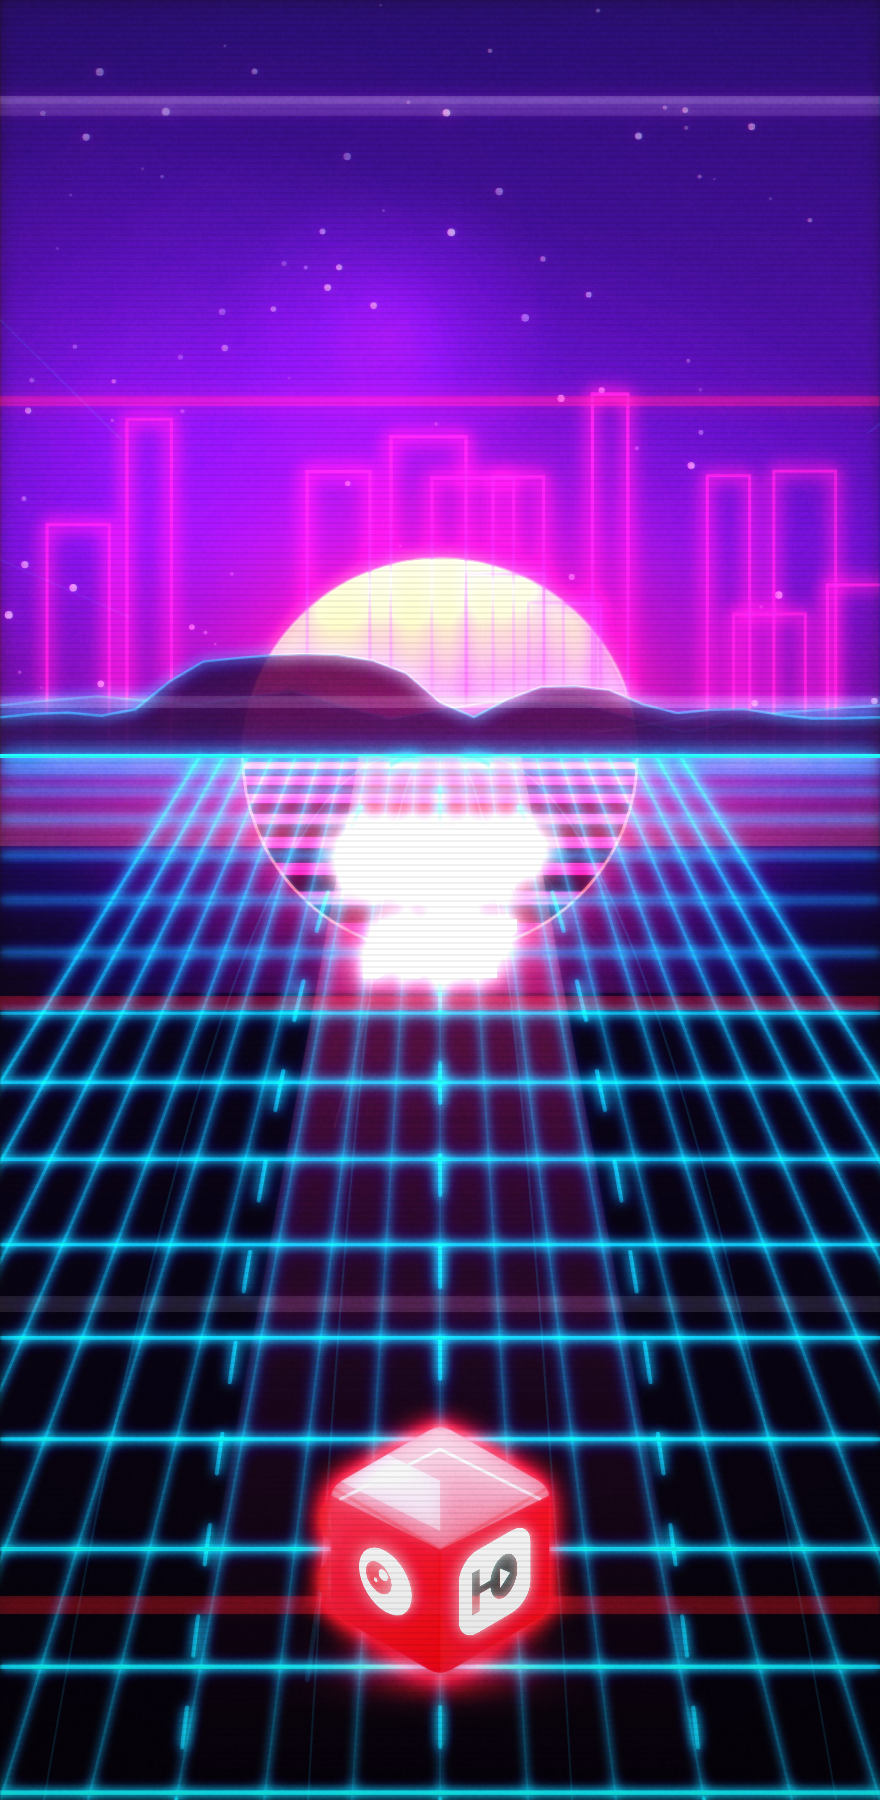
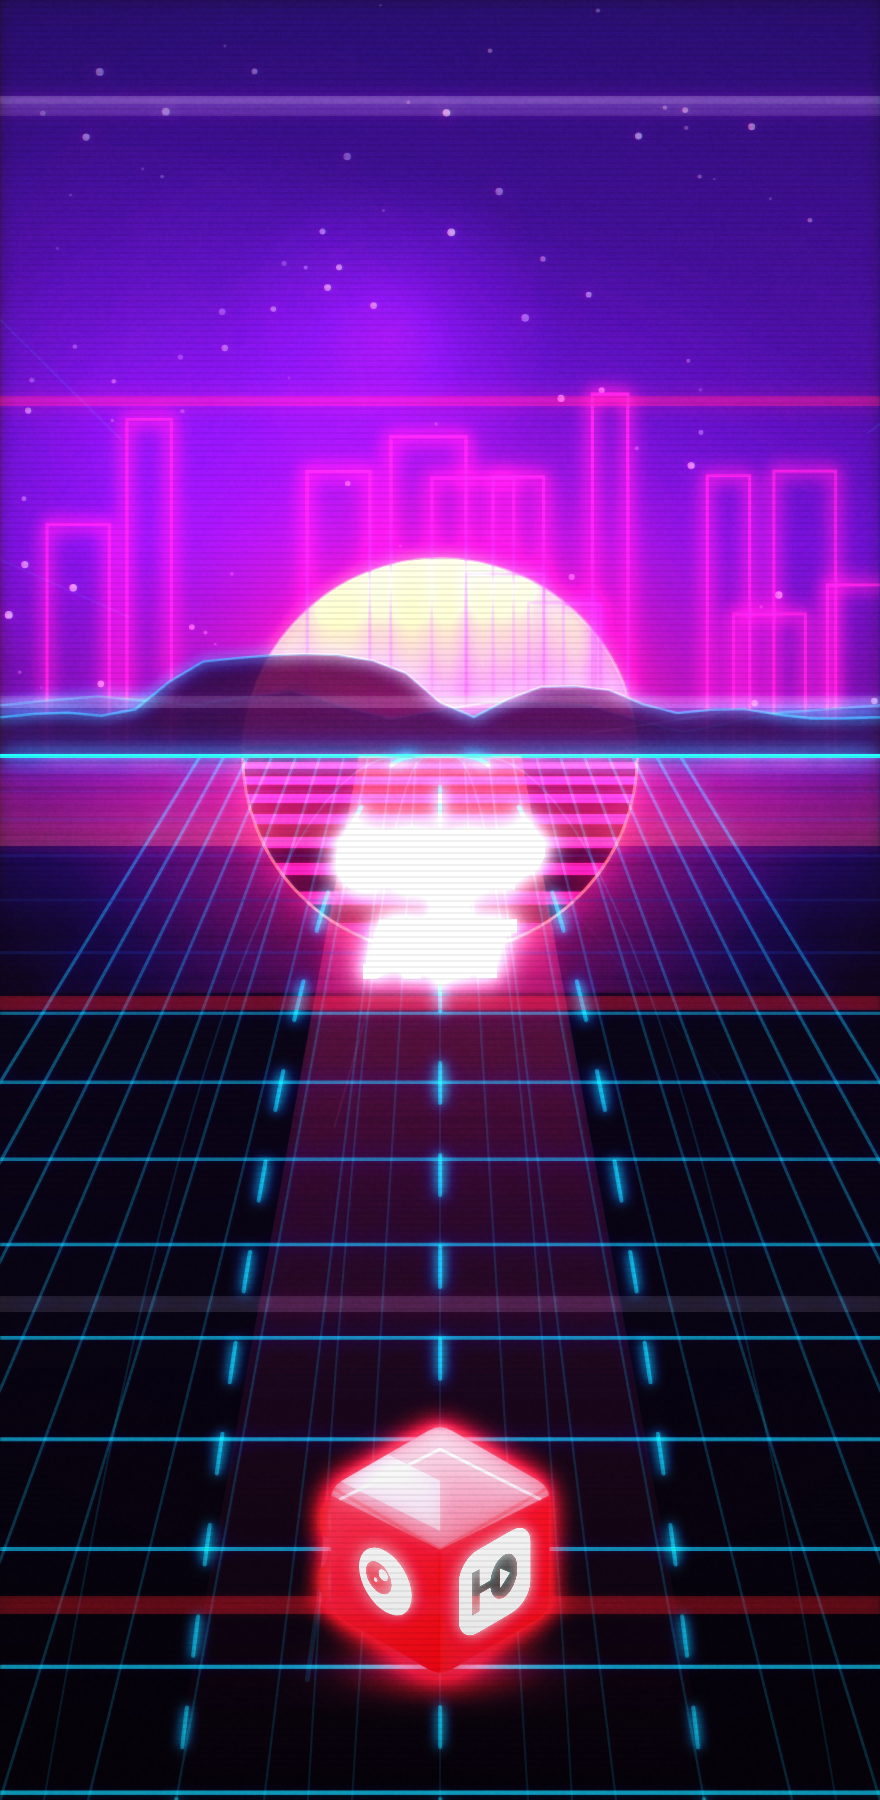
@ perf: адаптивное качество рендера — фикс тормозов на мобиле/хостинге
Менеджер качества следит за временем кадра и сам подбирает тир: DPR + вкл/выкл
тяжёлых полнокадровых эффектов. Стиль сохранён, деградирует мягко. Один билд
тянет и ПК, и мобилу.

- quality.js: EMA времени кадра, тиры 0–3 (dpr/bloom/aberration/grain/scanlines)
- render.js: потолок DPR 2.5→2 + setDprCap() на лету
- main.js: quality.sample() каждый кадр, пост-эффекты гейтятся тиром
- config.js: секция QUALITY (пороги/старт-тир)
- world.js: убран shadowBlur с сетки-пола (~37 штрихов/кадр) — свечение через bloom
- aberration по умолчанию off (только ультра-тир)

@

Changed region(s): [[0.0, 0.4044, 1.0, 1.0]]

diff --git a/src/main.js b/src/main.js
@@ -3,6 +3,7 @@ import { CONFIG } from '../config.js';
 import { setupCanvas, scanlines, clamp, drawRails } from './engine/render.js';
 import { bloom, aberration, vignette, grain } from './engine/postfx.js';
 import { Particles } from './engine/particles.js';
+import { Quality } from './engine/quality.js';
 import { initInput } from './engine/input.js';
 import { Audio } from './engine/audio.js';
 import { loadAssets, getSprite } from './engine/assets.js';
@@ -23,7 +24,9 @@ import * as UI from './ui/screens.js';
 const C = CONFIG.COLORS;
 const FX = CONFIG.FX;
 const canvas = document.getElementById('gameCanvas');
-const { ctx, ...view } = setupCanvas(canvas);
+const quality = new Quality();
+const { ctx, ...view } = setupCanvas(canvas, quality.s.dpr);
+quality.onChange = (s) => view.setDprCap(s.dpr);
 
 // Растровые ассеты необязательны: если манифест/PNG не загрузятся, объекты
 // останутся на процедурном рендере через getSprite() -> null.
@@ -302,9 +305,10 @@ function drawComboBurst(ctx, W, H, dt) {
 
 // --- Кадр -------------------------------------------------------------------
 function frame(now) {
-  let dt = (now - last) / 1000;
+  const dtMs = now - last;
+  let dt = Math.min(dtMs / 1000, 0.05);
   last = now;
-  dt = Math.min(dt, 0.05);
+  quality.sample(dtMs);           // адаптация качества по реальному времени кадра
   const geom = geometry(view.W, view.H);
 
   const rawSpeed = currentSpeed();
@@ -429,9 +433,10 @@ function frame(now) {
     captchaGame.draw(ctx, t);
   }
 
-  // --- кинематографичная пост-обработка (см. CONFIG.FX) ---
-  if (FX.BLOOM) bloom(ctx, canvas, { strength: FX.BLOOM_STRENGTH, blur: FX.BLOOM_BLUR, scale: FX.BLOOM_SCALE });
-  if (FX.ABERRATION) aberration(ctx, canvas, FX.ABERRATION);
+  // --- кинематографичная пост-обработка (тир качества рулит включением) ---
+  const q = quality.s;
+  if (FX.BLOOM && q.bloom) bloom(ctx, canvas, { strength: FX.BLOOM_STRENGTH, blur: FX.BLOOM_BLUR, scale: q.bloomScale });
+  if (FX.ABERRATION && q.aberration) aberration(ctx, canvas, FX.ABERRATION);
 
   // пост-эффекты
   const frac = clamp((speed - CONFIG.BASE_SPEED) / (CONFIG.MAX_SPEED - CONFIG.BASE_SPEED), 0, 1);
@@ -445,9 +450,9 @@ function frame(now) {
     ctx.save(); ctx.fillStyle = vg; ctx.fillRect(0, 0, geom.W, geom.H); ctx.restore();
   }
   if (flash > 0) { ctx.save(); ctx.globalAlpha = clamp(flash, 0, 1) * 0.6; ctx.fillStyle = state === 'dying' ? C.danger : C.white; ctx.fillRect(0, 0, geom.W, geom.H); ctx.restore(); }
-  if (FX.VIGNETTE) vignette(ctx, geom.W, geom.H, FX.VIGNETTE);
-  if (FX.GRAIN) grain(ctx, geom.W, geom.H, FX.GRAIN, fxFrame++);
-  scanlines(ctx, geom.W, geom.H);
+  if (FX.VIGNETTE) vignette(ctx, geom.W, geom.H, FX.VIGNETTE);       // дёшево — всегда
+  if (FX.GRAIN && q.grain) grain(ctx, geom.W, geom.H, FX.GRAIN, fxFrame++);
+  if (q.scanlines) scanlines(ctx, geom.W, geom.H);
 
   // HUD
   if (state === 'play' || state === 'dying' || state === 'captcha') {

diff --git a/src/engine/quality.js b/src/engine/quality.js
@@ -1,0 +1,39 @@
+// Адаптивное качество рендера. Следит за сглаженным временем кадра и переключает
+// «тир»: на слабом железе/мобильном WebView понижает DPR и отключает тяжёлые
+// полнокадровые пост-эффекты; на мощном — включает по максимуму. Цель — стабильные
+// 60 fps без потери синтвейв-стиля (он деградирует мягко).
+import { CONFIG } from '../../config.js';
+import { clamp } from './render.js';
+
+// 0 = потато … 3 = ультра. dpr — потолок плотности; bloomScale — даунскейл буфера
+// bloom (меньше = дешевле и мягче). Самый дорогой эффект — aberration (2 фильтр-
+// прохода полного кадра), он включается только на ультре.
+const TIERS = [
+  { dpr: 1.25, bloom: false, aberration: false, grain: false, scanlines: false, bloomScale: 0.30 },
+  { dpr: 1.5,  bloom: true,  aberration: false, grain: false, scanlines: true,  bloomScale: 0.34 },
+  { dpr: 2.0,  bloom: true,  aberration: false, grain: true,  scanlines: true,  bloomScale: 0.40 },
+  { dpr: 2.0,  bloom: true,  aberration: true,  grain: true,  scanlines: true,  bloomScale: 0.50 },
+];
+
+export class Quality {
+  constructor(startTier = CONFIG.QUALITY.START_TIER) {
+    this.tier = clamp(startTier | 0, 0, TIERS.length - 1);
+    this.ema = 16.7;               // экспоненциальное среднее времени кадра (мс)
+    this.cooldown = CONFIG.QUALITY.WARMUP;
+    this.onChange = null;          // колбэк при смене тира (например, сменить DPR)
+  }
+
+  get s() { return TIERS[this.tier]; }
+
+  // dtMs — реальное (несглаженное) время последнего кадра в миллисекундах
+  sample(dtMs) {
+    if (dtMs > 0 && dtMs < 1000) this.ema = this.ema * 0.9 + dtMs * 0.1;
+    if (this.cooldown > 0) { this.cooldown--; return; }
+
+    if (this.ema > CONFIG.QUALITY.DOWN_MS && this.tier > 0) {
+      this.tier--; this.cooldown = 120; this.onChange?.(this.s);
+    } else if (this.ema < CONFIG.QUALITY.UP_MS && this.tier < TIERS.length - 1) {
+      this.tier++; this.cooldown = 200; this.onChange?.(this.s);
+    }
+  }
+}

diff --git a/config.js b/config.js
@@ -106,6 +106,18 @@ export const CONFIG = {
     NEBULA: true,          // мягкие маджента/фиолет «туманности» в небе (глубина)
   },
 
+  // --- Адаптивное качество (производительность) -----------------------------
+  // Менеджер следит за временем кадра и сам поднимает/опускает «тир» качества:
+  // на слабых устройствах (мобильный WebView) понижает DPR и отключает тяжёлые
+  // полнокадровые эффекты (хром-аберрация, зерно, bloom), на мощных — включает.
+  // Стиль (неон/синтвейв) сохраняется; деградирует мягко и автоматически.
+  QUALITY: {
+    START_TIER: 2,         // стартовый тир (0 потато … 3 ультра)
+    DOWN_MS: 23,           // средний кадр дольше N мс → понизить тир (~<43 fps)
+    UP_MS: 14.5,           // средний кадр короче N мс → поднять тир (~>68 fps)
+    WARMUP: 90,            // кадров «прогрева» до первой подстройки
+  },
+
   // --- Палитра ЮБуста: мульти-хью синтвейв -----------------------------------
   // Принцип «цвет = смысл»: холодный фон (фиолет/индиго/циан) vs тёплый
   // фирменный красный игрока/бустов даёт читаемость и «дорогой» вид.

diff --git a/src/engine/render.js b/src/engine/render.js
@@ -5,10 +5,12 @@
 // и CI-артефакты не превращали русские подписи в квадраты.
 export const FONT = '"Manrope","Inter","Segoe UI",Arial,"DejaVu Sans","Liberation Sans",system-ui,sans-serif';
 
-export function setupCanvas(canvas) {
+export function setupCanvas(canvas, dprCap = 2) {
   const ctx = canvas.getContext('2d');
+  let cap = dprCap;
   function resize() {
-    const dpr = Math.min(window.devicePixelRatio || 1, 2.5);
+    // DPR ограничен сверху (телефоны дают 2.5–3 → ×6–9 пикселей и просадки).
+    const dpr = Math.min(window.devicePixelRatio || 1, cap);
     const w = window.innerWidth;
     const h = window.innerHeight;
     canvas.width = Math.round(w * dpr);
@@ -19,7 +21,13 @@ export function setupCanvas(canvas) {
   }
   resize();
   window.addEventListener('resize', resize);
-  return { ctx, get W() { return window.innerWidth; }, get H() { return window.innerHeight; } };
+  return {
+    ctx,
+    get W() { return window.innerWidth; },
+    get H() { return window.innerHeight; },
+    // адаптивное качество меняет потолок DPR на лету (с переаллокацией буфера)
+    setDprCap(c) { if (c !== cap) { cap = c; resize(); } },
+  };
 }
 
 // неоновый прямоугольник со свечением и обводкой

diff --git a/src/game/world.js b/src/game/world.js
@@ -382,9 +382,11 @@ export class World {
       ctx.restore();
     }
 
-    // сетка: циан, с перспективным затуханием (дальние линии тусклее/тоньше)
+    // сетка: циан, с перспективным затуханием (дальние линии тусклее/тоньше).
+    // shadowBlur НЕ используем — это ~37 размытых штрихов/кадр (дорого на мобиле);
+    // свечение даёт пост-bloom. На потато-тире (bloom off) сетка просто плоская.
     ctx.save();
-    ctx.shadowColor = C.grid; ctx.shadowBlur = 6;
+    ctx.shadowBlur = 0;
     // вертикали (сходятся к точке схода) — затухают к горизонту
     for (let i = -10; i <= 10; i++) {
       const fx = vpx + i * (W / 10);

diff --git a/docs/solutions/2026-06-09-adaptive-quality-perf.md b/docs/solutions/2026-06-09-adaptive-quality-perf.md
@@ -1,0 +1,47 @@
+# Тормоза на хостинге → адаптивное качество рендера
+
+## Problem
+Игра ощутимо лагала на GitHub Pages, особенно в мобильном Telegram WebView.
+На десктопе плавно, на телефоне — просадки fps.
+
+## Root Cause
+Каждый кадр выполнялась тяжёлая полнокадровая пост-обработка поверх canvas с очень
+высоким разрешением:
+1. **DPR до 2.5** (`setupCanvas`): на телефоне это ×6.25 пикселей — огромный fill-rate.
+2. **`aberration`** ([postfx.js](../../src/engine/postfx.js)) — **два** прохода всего
+   кадра через `ctx.filter` (brightness/contrast) + `multiply`-заливки + композит.
+   Самый дорогой эффект, гонялся каждый кадр.
+3. **`bloom`** — `ctx.filter: blur(...)` по уменьшенной копии всего кадра (CSS-blur
+   дорог на мобиле), масштаб буфера тянулся за DPR.
+4. **`grain`** — тайлинг 256-шумовой текстуры по всему экрану с `overlay`-блендом.
+5. **`shadowBlur`** на ~37 штрихах сетки-пола каждый кадр (`world._drawFloor`) —
+   размытие штрихов крайне затратно на мобильных GPU.
+
+Сумма: высокий DPR × несколько full-frame фильтр-проходов = мобильный webview не тянет.
+
+## Solution
+**Адаптивное качество** — менеджер следит за временем кадра и сам подбирает тир,
+сохраняя синтвейв-стиль (деградирует мягко):
+- Новый [quality.js](../../src/engine/quality.js): EMA времени кадра; тиры 0–3
+  задают `dpr`, вкл/выкл `bloom/aberration/grain/scanlines` и `bloomScale`. Понижает
+  тир при среднем кадре > `DOWN_MS`, повышает при < `UP_MS` (гистерезис + cooldown,
+  чтобы не дёргалось). Параметры — в `CONFIG.QUALITY`.
+- [render.js](../../src/engine/render.js) `setupCanvas(canvas, dprCap)` — потолок DPR
+  по умолчанию **2** (вместо 2.5), и `setDprCap()` меняет его на лету (тир ↓ → DPR ↓).
+- [main.js](../../src/main.js): `quality.sample(dtMs)` каждый кадр; пост-эффекты
+  гейтятся `quality.s` (aberration — только ультра; grain/scanlines/bloom — по тиру).
+  Виньетка дёшева — всегда.
+- **`aberration` по умолчанию выключена** (тир 2), включается лишь на сильном железе.
+- [world.js](../../src/game/world.js): убран `shadowBlur` с сетки-пола — свечение даёт
+  пост-bloom (на потато-тире сетка просто плоская). Минус ~37 размытых штрихов/кадр.
+
+Итог: на слабых устройствах автоматически DPR 1.25–1.5 без aberration/grain (и без
+bloom на дне), на мощных — полный ультра-вид. Один билд работает и на ПК, и на мобиле.
+
+## Prevention
+- Полнокадровые эффекты с `ctx.filter`/`shadowBlur` — самые дорогие; новые такие
+  эффекты добавлять **через тир качества**, а не безусловно.
+- DPR на мобиле всегда ограничивать (×2 уже даёт ×4 пикселей).
+- `shadowBlur` в горячих циклах (много штрихов/кадр) избегать — полагаться на bloom.
+- Тюнинг порогов/тиров — только в `CONFIG.QUALITY`. Превью (`render-shot.mjs`) рендерят
+  в полном качестве (`CONFIG.FX` напрямую) — это эталон «ультра», не трогать.
